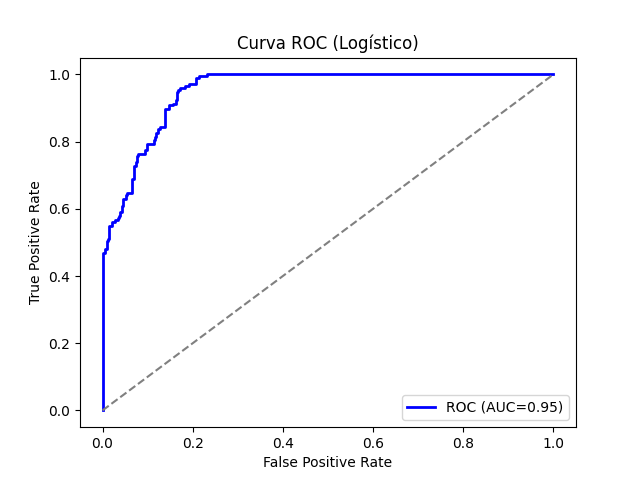
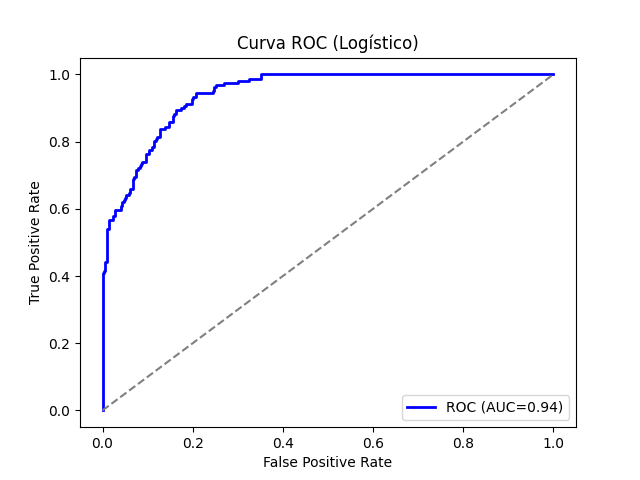
Prediction - Mas ruido en entrenamientos

diff --git a/app/prediction/application/prediction_service.py b/app/prediction/application/prediction_service.py
@@ -1,21 +1,31 @@
-from app.prediction.infrastructure.model_storage import save_model, load_model
-from app.prediction.domain.models import LinearRegressor, LogisticRegressor
 import torch
 from torch import nn
+# 👉 Librería PyTorch para trabajar con tensores y redes neuronales.
+
 import math
 import os
+# 👉 Math = validaciones matemáticas (NaN, infinito).
+# 👉 OS = crear carpetas donde se guardan modelos y gráficas.
+
 from sklearn.metrics import accuracy_score, precision_score, recall_score, f1_score
 from sklearn.metrics import confusion_matrix, ConfusionMatrixDisplay, roc_curve, auc
-import matplotlib
-matplotlib.use("Agg")   # 👈 backend sin GUI, evita Tkinter
-import matplotlib.pyplot as plt
+# 👉 Métricas de evaluación para el modelo logístico.
 
-# Función de validación profesional
+import matplotlib
+matplotlib.use("Agg")
+import matplotlib.pyplot as plt
+# 👉 Librería para graficar pérdida, matrices de confusión, curva ROC.
+# 👉 "Agg" = modo sin interfaz gráfica (evita errores en servidor).
+
+from app.prediction.domain.models import LinearRegressor, LogisticRegressor
+from app.prediction.infrastructure.model_storage import save_model, load_model
+
+
+# ===================== FUNCIÓN DE VALIDACIÓN =====================
 
 def safe_float(value: float) -> float:
     """
     Convierte un número a float seguro para serialización JSON.
-    
     - Si el valor es NaN (Not a Number) o infinito → lanza un error.
     - Garantiza que las respuestas de la API sean válidas en JSON.
     """
@@ -23,48 +33,47 @@ def safe_float(value: float) -> float:
         raise ValueError(f"Valor no válido detectado: {value}")
     return float(value)
 
-# Rutas donde se guardarán los modelos
+# ===================== RUTAS DE MODELOS Y PLOTS =====================
 
 LINEAR_MODEL_PATH = "app/prediction/infrastructure/models/linear_regression.pth"
 LOGISTIC_MODEL_PATH = "app/prediction/infrastructure/models/logistic_regression.pth"
 PLOT_DIR = "app/prediction/infrastructure/plots"
 
-# Crear la carpeta plots si no existe
 os.makedirs(PLOT_DIR, exist_ok=True)
+# 👉 Se asegura de que la carpeta para guardar gráficas exista.
 
-# Regresión Lineal (peso ~ tamaño)
+
+# ===================== MODELO LINEAL =====================
 
 def train_linear_model():
     """
     Entrena un modelo de regresión lineal para predecir el **peso del gato**
     a partir de su **tamaño**.
-
-    Proceso:
-    1. Genera datos simulados (tamaño en cm entre 20–60).
-    2. Normaliza los datos para mejorar el entrenamiento.
-    3. Define modelo, optimizador (SGD) y función de pérdida (MSE).
-    4. Realiza 1000 iteraciones de entrenamiento.
-    5. Guarda el modelo entrenado y genera una gráfica de la pérdida.
-    
-    Retorna:
-    - Última pérdida (MSE y RMSE).
-    - Ruta de la gráfica de evolución de la pérdida.
     """
-    # Datos simulados: tamaño entre 20–60 cm
+    # --- 1. Datos simulados (20–60 cm, con ruido aleatorio) ---
     x_raw = torch.linspace(20, 60, 200).unsqueeze(1)
     x = (x_raw - x_raw.mean()) / x_raw.std()
-    y = 0.18 * x_raw - 2 + 0.5 * torch.randn(200, 1)
+    y = (
+        0.18 * x_raw - 2
+        + 0.5 * torch.randn(200, 1)  # ruido normal
+        + 0.02 * (x_raw**1.5) / 100  # curva ligera
+    )
 
-    # Definición de modelo, optimizador y función de pérdida
+    # --- 2. Modelo y entrenamiento ---
     model = LinearRegressor()
     optim = torch.optim.SGD(model.parameters(), lr=0.001)
     loss_fn = nn.MSELoss()
 
     losses = []
     for _ in range(1000):
-        pred = model(x)
-        loss = loss_fn(pred, y)
+        pred = model(x)             # predicciones
+        loss = loss_fn(pred, y)     # error MSE
 
+        """
+        Qué valida: Que la función de pérdida no explote y devuelva NaN.
+        Por qué: a veces el gradiente se descontrola y el modelo “revienta”.
+        Protege: el proceso de entrenamiento.
+        """
         if torch.isnan(loss):
             raise ValueError("El entrenamiento produjo NaN en la pérdida")
 
@@ -73,10 +82,10 @@ def train_linear_model():
         optim.step()
         losses.append(loss.item())
 
-    # Guardar modelo entrenado
+    # --- 3. Guardar modelo entrenado ---
     save_model(model, LINEAR_MODEL_PATH)
 
-    # Guardar gráfica de pérdida
+    # --- 4. Guardar gráfica de pérdidas ---
     plt.plot(losses)
     plt.xlabel("Epoch")
     plt.ylabel("MSE Loss")
@@ -85,6 +94,7 @@ def train_linear_model():
     plt.savefig(linear_plot_path)
     plt.close()
 
+    # --- 5. Retorno con métricas ---
     return {
         "message": "Modelo lineal entrenado (peso ~ tamaño)",
         "loss": safe_float(losses[-1]),
@@ -97,19 +107,18 @@ def train_linear_model():
 def predict_linear(size: float):
     """
     Predice el **peso de un gato** usando el modelo de regresión lineal entrenado.
-
-    - Entrada: tamaño del gato en cm (15–125).
-    - Normaliza la entrada y obtiene la predicción.
-    - Devuelve el peso estimado (mínimo 0.5 kg por realismo).
     """
+
+    # --- Validación de entrada ---
     if size < 15 or size > 125:
         raise ValueError("El tamaño debe estar entre 15 y 125 cm.")
 
+    # --- Cargar modelo ---
     model = load_model(LinearRegressor, LINEAR_MODEL_PATH)
     if model is None:
         raise FileNotFoundError("Modelo lineal no entrenado aún.")
 
-    # Normalización aproximada
+    # --- Normalizar entrada y predecir ---
     x_norm = (torch.tensor([[size]], dtype=torch.float32) - 40) / 10
 
     with torch.no_grad():
@@ -119,36 +128,28 @@ def predict_linear(size: float):
             "peso_pred_kg": safe_float(max(peso_pred, 0.5))  # mínimo 0.5 kg
         }
 
-# Regresión Logística (atrapa ratón o no)
-
+# ===================== MODELO LOGÍSTICO =====================
 def train_logistic_model():
     """
     Entrena un modelo de regresión logística para predecir si un gato atrapa un ratón.
-
-    Proceso:
-    1. Genera datos simulados (velocidad y energía).
-    2. Define etiquetas (1 si velocidad*energía > 3, sino 0).
-    3. Entrena el modelo con BCE (Binary Cross Entropy).
-    4. Evalúa métricas: accuracy, precision, recall, F1.
-    5. Genera gráficas de:
-        - Matriz de confusión.
-        - Curva ROC.
-    6. Guarda modelo y gráficas.
-    
-    Retorna:
-    - Última pérdida.
-    - Métricas de evaluación.
-    - Rutas de las gráficas.
     """
-    # Datos simulados
+    
+    # --- 1. Datos simulados ---
     velocidad = torch.rand(500, 1) * 10
     energia = torch.rand(500, 1)
-    y = ((velocidad * energia) > 3).float()
+    # Condición base: velocidad * energia
+    base = velocidad * energia
+
+    # Le agregamos ruido y una condición "difusa"
+    y = ((base + 0.5 * torch.randn(500, 1)) > 3).float()
+
     x = torch.cat([velocidad, energia], dim=1)
 
+    # --- 2. Modelo y entrenamiento ---
     model = LogisticRegressor()
     optim = torch.optim.SGD(model.parameters(), lr=0.1)
     loss_fn = nn.BCELoss()
+
 
     losses = []
     for _ in range(500):
@@ -159,18 +160,18 @@ def train_logistic_model():
         optim.step()
         losses.append(loss.item())
 
-    # Evaluación
+    # --- 3. Evaluación ---
     with torch.no_grad():
         y_pred_prob = model(x).numpy()
         y_pred_class = (y_pred_prob >= 0.5).astype(int)
 
-    # Métricas
+    # --- 4. Métricas ---
     acc = accuracy_score(y.numpy(), y_pred_class)
     prec = precision_score(y.numpy(), y_pred_class)
     rec = recall_score(y.numpy(), y_pred_class)
     f1 = f1_score(y.numpy(), y_pred_class)
 
-    # Matriz de confusión
+    # --- 5. Matriz de confusión ---
     cm = confusion_matrix(y.numpy(), y_pred_class)
     disp = ConfusionMatrixDisplay(confusion_matrix=cm)
     disp.plot(cmap=plt.cm.Blues)
@@ -179,7 +180,7 @@ def train_logistic_model():
     plt.savefig(cm_plot_path)
     plt.close()
 
-    # Curva ROC
+    # --- 6. Curva ROC ---
     fpr, tpr, _ = roc_curve(y.numpy(), y_pred_prob)
     roc_auc = auc(fpr, tpr)
     plt.plot(fpr, tpr, color='blue', lw=2, label=f"ROC (AUC={roc_auc:.2f})")
@@ -192,7 +193,10 @@ def train_logistic_model():
     plt.savefig(roc_plot_path)
     plt.close()
 
+    # --- 7. Guardar modelo ---
     save_model(model, LOGISTIC_MODEL_PATH)
+
+    # --- 8. Retorno ---
     return {
         "message": "Modelo logístico entrenado (atrapa ratón)",
         "loss": safe_float(losses[-1]),
@@ -209,25 +213,24 @@ def train_logistic_model():
 def predict_logistic(x1: float, x2: float):
     """
     Predice si un gato atrapará un ratón usando el modelo de regresión logística.
-
-    - Entradas:
-        - x1: velocidad del gato en m/s (0–20).
-        - x2: nivel de energía (0–1).
-    - Validaciones: error si está fuera de rango.
-    - Salida:
-        - velocidad y energía ingresadas.
-        - probabilidad (0–1).
-        - clase (0 = no atrapa, 1 = atrapa).
     """
+
+    # --- Validación de entrada ---
     if x1 < 0 or x1 > 20:
         raise ValueError("La velocidad debe estar entre 0 y 20 m/s.")
     if x2 < 0 or x2 > 1:
         raise ValueError("La energía debe estar entre 0 y 1.")
 
+    # --- Cargar modelo ---
+    """
+    Qué valida: Que el modelo ya esté entrenado y guardado.
+    Por qué: si intentas predecir sin entrenar primero → lanza error claro.
+    """
     model = load_model(LogisticRegressor, LOGISTIC_MODEL_PATH)
     if model is None:
         raise FileNotFoundError("Modelo logístico no entrenado aún.")
 
+    # --- Predicción ---
     with torch.no_grad():
         prob = model(torch.tensor([[x1, x2]])).item()
         clase = 1 if prob >= 0.5 else 0
@@ -235,5 +238,5 @@ def predict_logistic(x1: float, x2: float):
             "velocidad": safe_float(x1),
             "energia": safe_float(x2),
             "probabilidad": safe_float(prob),
-            "clase": clase
-        }
+            "clase": clase # 0=no atrapa, 1=atrapa
+        } 
